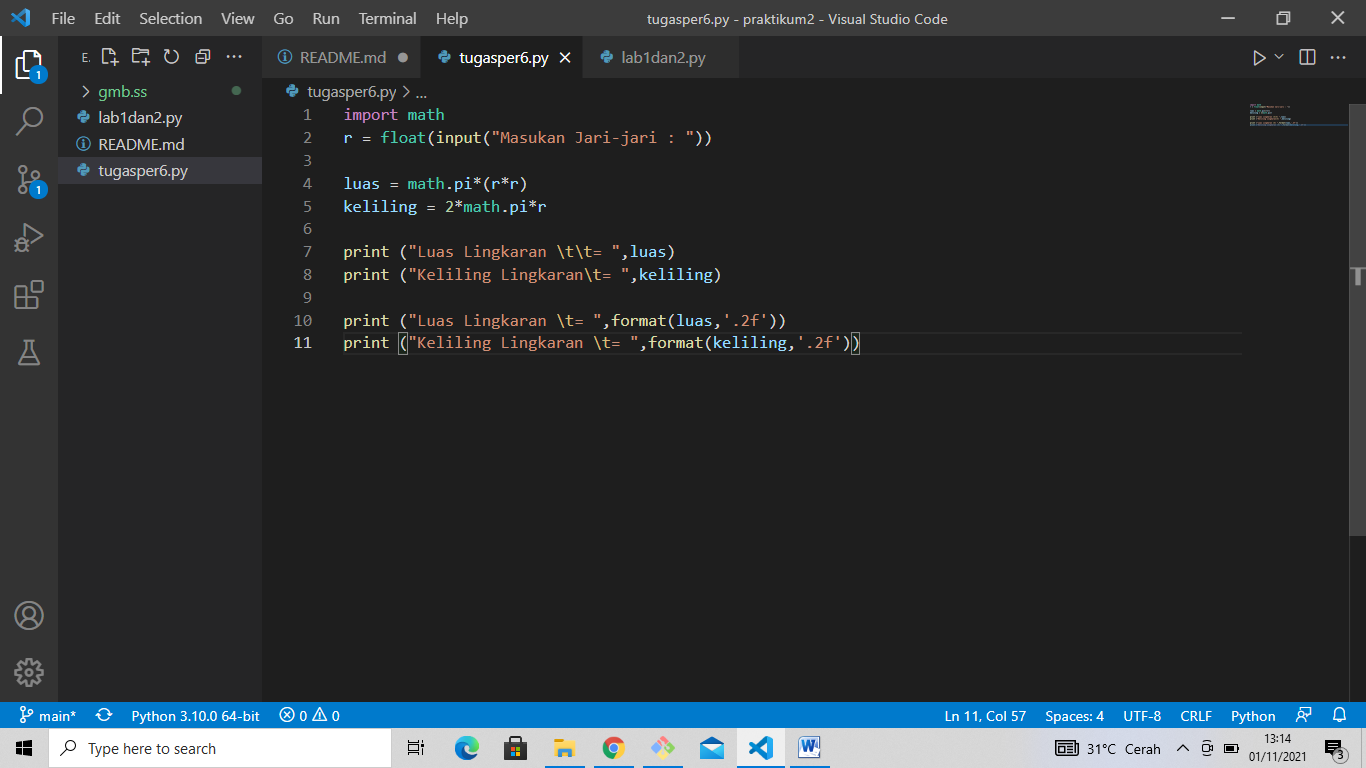
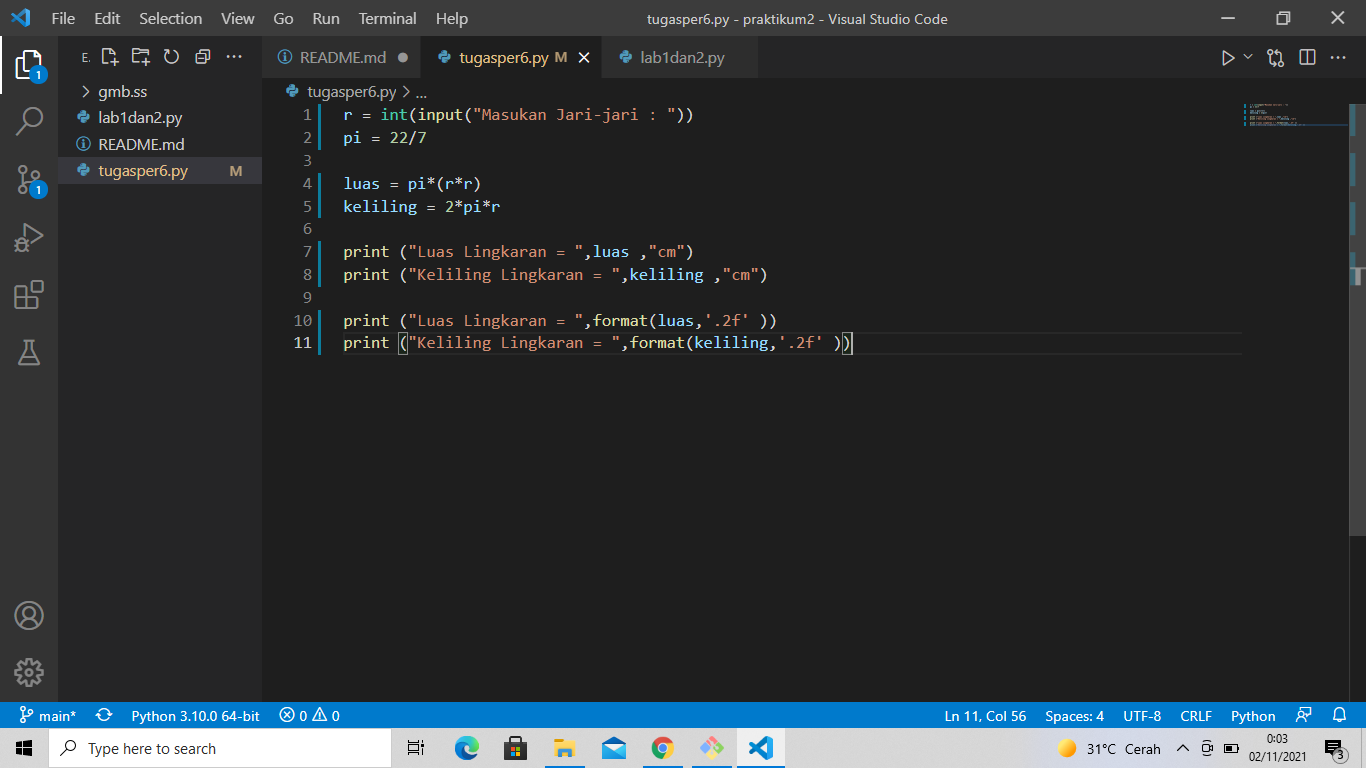
perubahan

diff --git a/tugasper6.py b/tugasper6.py
@@ -1,11 +1,11 @@
-import math
-r = float(input("Masukan Jari-jari : "))
+r = int(input("Masukan Jari-jari : "))
+pi = 22/7
 
-luas = math.pi*(r*r)
-keliling = 2*math.pi*r
+luas = pi*(r*r)
+keliling = 2*pi*r
 
-print ("Luas Lingkaran \t\t= ",luas)
-print ("Keliling Lingkaran\t= ",keliling)
+print ("Luas Lingkaran = ",luas ,"cm")
+print ("Keliling Lingkaran = ",keliling ,"cm")
 
-print ("Luas Lingkaran \t= ",format(luas,'.2f'))
-print ("Keliling Lingkaran \t= ",format(keliling,'.2f'))
+print ("Luas Lingkaran = ",format(luas,'.2f' )) 
+print ("Keliling Lingkaran = ",format(keliling,'.2f' ))
